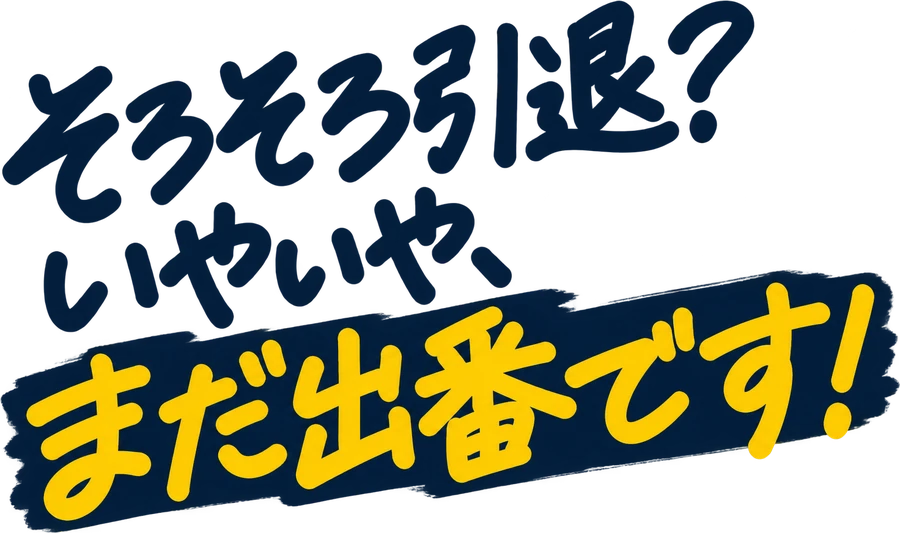
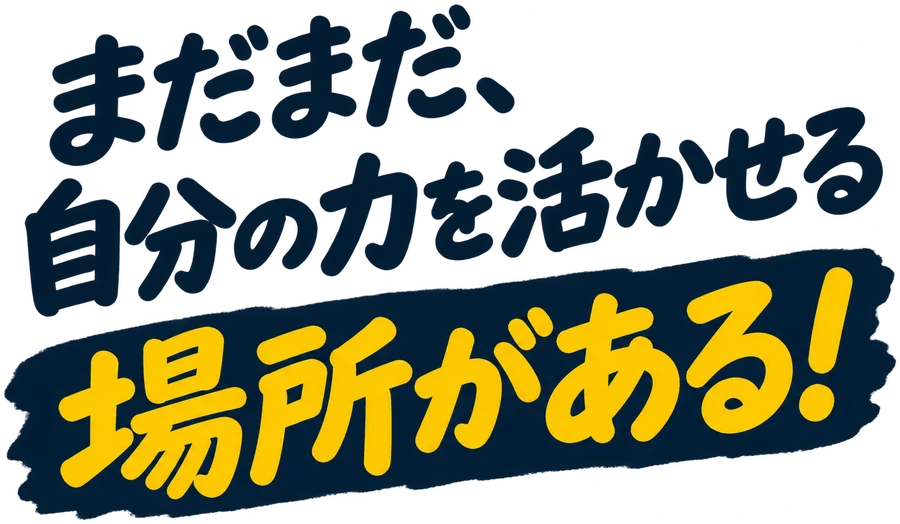
表示を更新（2026-11-02）

diff --git a/index.html b/index.html
@@ -9,20 +9,20 @@
   <meta property="og:type" content="website">
   <meta property="og:title" content="興和通信建設株式会社｜警備員 採用サイト">
   <meta property="og:description" content="興和通信建設株式会社 採用サイト。東京都港区・足立区で交通誘導警備員（パート・アルバイト）を募集しています。">
-  <meta property="og:url" content="https://kowa-keibi-recruit.pages.dev/">
+  <meta property="og:url" content="https://hse-inc.github.io/kowa-keibi-lp/">
   <meta property="og:site_name" content="興和通信建設株式会社 採用サイト">
-  <meta property="og:image" content="https://kowa-keibi-recruit.pages.dev/assets/ogp.jpg">
+  <meta property="og:image" content="https://hse-inc.github.io/kowa-keibi-lp/assets/ogp.jpg">
   <meta property="og:image:width" content="1200">
   <meta property="og:image:height" content="630">
   <meta name="twitter:card" content="summary_large_image">
-  <meta name="twitter:image" content="https://kowa-keibi-recruit.pages.dev/assets/ogp.jpg">
+  <meta name="twitter:image" content="https://hse-inc.github.io/kowa-keibi-lp/assets/ogp.jpg">
   <link rel="icon" href="assets/favicon.svg" type="image/svg+xml">
   <link rel="preconnect" href="https://fonts.googleapis.com">
   <link rel="preconnect" href="https://fonts.gstatic.com" crossorigin>
   <link href="https://fonts.googleapis.com/css2?family=Yusei+Magic&family=Montserrat:wght@700;800&family=Zen+Kaku+Gothic+New:wght@500;700&display=swap" rel="stylesheet">
-    <link rel="stylesheet" href="tokens.css?v=20261028e">
-  <link rel="stylesheet" href="base.css?v=20261028e">
-  <link rel="stylesheet" href="style.css?v=20261028e">
+    <link rel="stylesheet" href="tokens.css?v=20261102a">
+  <link rel="stylesheet" href="base.css?v=20261102a">
+  <link rel="stylesheet" href="style.css?v=20261102a">
 </head>
 <body>
   <svg width="0" height="0" class="defs" aria-hidden="true">
@@ -81,8 +81,8 @@
             <svg class="obj obj--white" style="--x:4%;--y:92%;--s:24px;--d:-.6s"><use href="#spark"/></svg>
           </div>
           <div class="page__inner page__inner--kv">
-            <h2 class="ttl ttl--hand ttl--kv rv ttl--img"><span class="vh"><span class="ln">そろそろ引退？いやいや、まだ出番です！</span></span><img class="ttl__img" src="assets/ttl_p1.webp?v=20261028e" alt="" width="900" height="533" decoding="async" aria-hidden="true"></h2>
-            <p class="body body--kv rv"><span class="ln"><span class="nb">「<span class="em">昔ほど</span>体力が</span><wbr>なくなってきたなぁ」</span><span class="ln"><span class="nb">「<span class="em">授業や</span>仕事の合間にサクッと稼ぎたいな！」</span></span><span class="ln">そんなふうに<wbr>思っていませんか？</span><span class="ln">でも、<wbr>ちょっと<wbr>待ってください！</span><span class="ln">まだまだ、<wbr>あなたの<wbr>力が<wbr>必要な<wbr>場所があります。</span><span class="ln">無理して<wbr>頑張る<wbr>必要はありません。</span><span class="ln">自分の<wbr>ペースを<wbr>大切にしながら、<wbr>街の<wbr>安全を<wbr>見守る<wbr>仕事。</span><span class="ln"><span class="hl"><span class="nb">さあ、もう一度、</span><wbr><span class="nb">街へ出てみませんか？</span></span></span></p>
+            <h2 class="ttl ttl--hand ttl--kv rv ttl--img"><span class="vh"><span class="ln">まだまだ、自分の力を活かせる場所がある！</span></span><img class="ttl__img" src="assets/ttl_p1.webp?v=20261102a" alt="" width="900" height="524" decoding="async" aria-hidden="true"></h2>
+            <p class="body body--kv rv"><span class="ln">これまでの<wbr><span class="em">経験</span>を<wbr>活かすのもよし。</span><span class="ln"><span class="nb"><span class="em">新しい仕事</span>に</span><wbr>飛び込むのもよし。</span><span class="ln">無理せず、<wbr><span class="nb"><span class="em">自分らしいペース</span>で</span><wbr>働くのもよし。</span><span class="ln"><span class="nb">「東京で新しい生活を</span><wbr><span class="nb">始めたい！」</span></span><span class="ln">そんな<wbr>きっかけだって<wbr><span class="em">大歓迎！</span></span><span class="ln">大切なのは、<wbr>年齢や<wbr>経験よりも、<wbr><span class="em nb">これからどう働きたいか。</span></span><span class="ln"><span class="nb">若手には若手の、</span><wbr><span class="nb">ミドル世代にはミドル世代の、</span></span><span class="ln"><span class="nb">ベテランにはベテランの</span><wbr><span class="nb">強みがあります。</span></span><span class="ln">無理に<wbr>背伸びする<wbr>必要も、<wbr>頑張りすぎる<wbr>必要もありません。</span><span class="ln">自分の<wbr>ペースで<wbr>働きながら、<wbr>街の<wbr>安全を<wbr>守っていく。</span><span class="ln"><span class="hl"><span class="nb">まだまだ、あなたの経験も</span><wbr><span class="nb">可能性も</span></span></span><span class="ln"><span class="hl"><span class="nb">眠らせておくには早すぎます！</span></span></span></p>
           </div>
         </section>
 
@@ -120,7 +120,7 @@
               <p class="ring"><span class="page__label ring__lab">ON</span><svg class="ico" style="--s:52px"><use href="#baton"/></svg></p>
               <p class="ring ring--2"><span class="page__label ring__lab">OFF</span><img class="fig fig--ring" src="assets/ill/p3_off.webp?v=20261028e" alt="" width="816" height="520" decoding="async"></p>
             </div>
-            <p class="body body--c rv"><span class="ln">当社の<wbr>警備は、<wbr>メリハリが<wbr>大切。</span><span class="ln">工事車両を<wbr>コインパーキングなどに<wbr>停めて<wbr><span class="nb">作業する際は、</span><wbr>車内で<wbr>待機することもあります。</span><span class="ln">もちろん、<wbr>安全確認や<wbr>誘導が<wbr>必要なときは、<wbr><span class="nb">しっかり対応。</span></span><span class="ln">でも、<wbr>ずっと<wbr>立ち<wbr>続けたり、<wbr>慌ただしく<wbr>動き<wbr>回ったりする<wbr>現場ばかりではありません。</span><span class="ln">体力に<wbr>自信がない<wbr>方も、<wbr>無理なく<wbr>続けやすい。</span><span class="ln"><span class="hl"><span class="nb">そんな働き方ができる仕事です。</span></span></span></p>
+            <p class="body body--c rv"><span class="ln">動くときは<wbr>しっかり動く。</span><span class="ln">待機するときは、<wbr>落ち着いて<wbr>見守る。</span><span class="ln">当社の<wbr>警備は、<wbr>メリハリが<wbr>大切。</span><span class="ln">もちろん、<wbr>安全確認や<wbr>誘導が<wbr>必要なときは、<wbr><span class="nb">しっかり対応。</span></span><span class="ln">でも、<wbr>ずっと<wbr>立ち<wbr>続けたり、<wbr>慌ただしく<wbr>動き<wbr>回ったりする<wbr>現場ばかりではありません。</span><span class="ln">体力に<wbr>自信がない<wbr>方も、<wbr>無理なく<wbr>続けやすい。</span><span class="ln"><span class="hl"><span class="nb">そんな働き方ができる仕事です。</span></span></span></p>
           </div>
         </section>
 
@@ -199,9 +199,10 @@
               <h2 class="ttl ttl--denser ttl--hand ttl--center rv ttl--img"><span class="vh"><span class="ln">こんなあなたに、ぜひ来てほしい！</span></span><img class="ttl__img" src="assets/ttl_p7.webp?v=20261028e" alt="" width="900" height="395" decoding="async" aria-hidden="true"></h2>
             </div>
             <div class="bands">
-              <p class="band band--ink rv"><span class="page__label band__en" aria-hidden="true">Voice 01</span><span class="ln">「まだまだ<wbr>現役でいたい！」</span></p>
-              <p class="band band--yellow rv"><span class="page__label band__en" aria-hidden="true">Voice 02</span><span class="ln">「身体に<wbr>無理なく<wbr>働きたい！」</span></p>
-              <p class="band band--pale rv"><span class="page__label band__en" aria-hidden="true">Voice 03</span><span class="ln">「人と<wbr>関わる<wbr>仕事が<wbr>好き！」</span></p>
+              <p class="band band--ink rv"><span class="page__label band__en" aria-hidden="true">Voice 01</span><span class="ln">「人と<wbr>関わる<wbr>仕事が<wbr>好き！」</span></p>
+              <p class="band band--yellow rv"><span class="page__label band__en" aria-hidden="true">Voice 02</span><span class="ln">「未経験から<wbr>新しい<wbr>仕事に<wbr>挑戦したい！」</span></p>
+              <p class="band band--pale rv"><span class="page__label band__en" aria-hidden="true">Voice 03</span><span class="ln">「身体に<wbr>無理なく<wbr>働きたい！」</span></p>
+              <p class="band band--ink rv"><span class="page__label band__en" aria-hidden="true">Voice 04</span><span class="ln">「まだまだ<wbr>現役でいたい！」</span></p>
             </div>
             <p class="body body--c rv"><span class="ln">そんな<wbr>気持ちがある<wbr>方を<wbr>歓迎します。</span><span class="ln">警備の<wbr>経験がなくても、<wbr>特別な<wbr>スキルに<wbr>自信がなくても<wbr>大丈夫。</span><span class="ln">大切なのは、<wbr>周囲への<wbr>気配りと、<wbr><span class="nb">安全を守ろうとする姿勢です。</span></span><span class="ln">年齢を<wbr>重ねたからこその<wbr>落ち<wbr>着きや、<wbr>人生経験も<wbr>立派な<wbr>強み。</span><span class="ln"><span class="hl"><span class="nb">あなたらしさを、</span><wbr><span class="nb">ぜひ当社で活かしてください。</span></span></span></p>
           </div>
@@ -271,7 +272,7 @@
             <div class="cd cd--white">
               <dl class="req">
                 <div class="req__row"><dt>職種<span class="vh">：</span></dt><dd>警備員</dd></div>
-                <div class="req__row"><dt>仕事内容<span class="vh">：</span></dt><dd><span class="ln">・車両、<wbr>歩行者等の<wbr>交通誘導、<wbr><span class="nb">車内待機（車両の見張り）</span></span><span class="ln">・幹線系工事</span><span class="ln">・引込系工事</span><span class="ln">・通信設備、<wbr><span class="nb">配線工事、保守</span></span></dd></div>
+                <div class="req__row"><dt>仕事内容<span class="vh">：</span></dt><dd><span class="ln">・車両、<wbr>歩行者等の<wbr>交通誘導、<wbr><span class="nb">車内待機（車両の見張り）</span></span></dd></div>
                 <div class="req__row"><dt>雇用形態<span class="vh">：</span></dt><dd>パート・アルバイト</dd></div>
                 <div class="req__row"><dt>給与<span class="vh">：</span></dt><dd>日給／11,500円〜12,500円</dd></div>
                 <div class="req__row"><dt>試用期間<span class="vh">：</span></dt><dd>3ヶ月</dd></div>
@@ -280,9 +281,9 @@
                 <div class="req__row"><dt>休日休暇<span class="vh">：</span></dt><dd>シフト制</dd></div>
                 <div class="req__row"><dt>福利厚生<span class="vh">：</span></dt><dd>
                   <span class="ln">◇ 法定研修あり</span><span class="ln">未経験の<wbr>方でも<wbr>業務に<wbr>就く<wbr>前に<wbr>研修を<wbr>行いますので<wbr>ご安心ください。</span><span class="ln">20時間以上(3日間)：約25,600円</span><span class="ln">※20勤務後の<wbr>給与に<wbr>算入</span>
-                  <span class="ln">日給 11,500円 ～ 12,500円</span><span class="ln">◇ 交通費全額支給</span><span class="ln">◇ 入社祝金30,000円支給</span><span class="ln">┗20勤務後</span><span class="ln">◇ 皆勤手当あり</span><span class="ln">┗月：10,000円(月20日以上勤務した<wbr>場合)</span><span class="ln">◇ 残業手当あり</span><span class="ln">┗1563円/ｈ</span><span class="ln">◇ 資格手当あり</span><span class="ln">┗交通誘導業務検定1級、<wbr>2級を<wbr>お持ちの<wbr>方：日給に+500円</span><span class="ln">┗資格配置現場：1日+1,500円</span><span class="ln">◇ 日給全額保証あり</span>
+                  <span class="ln">日給 11,500円 ～ 12,500円</span><span class="ln">◇ 交通費全額支給</span><span class="ln">◇ 入社祝金30,000円支給</span><span class="ln">┗20勤務後</span><span class="ln">◇ 皆勤手当あり</span><span class="ln">┗月：10,000円(月20日以上勤務した<wbr>場合)</span><span class="ln">◇ 残業手当あり</span><span class="ln">◇ 資格手当あり</span><span class="ln">┗交通誘導業務検定1級、<wbr>2級を<wbr>お持ちの<wbr>方：日給に+500円</span><span class="ln">┗資格配置現場：1日+1,500円</span><span class="ln">◇ 日給全額保証あり</span>
                   <span class="ln">◇ 未経験OK！</span><span class="ln">◇ 週2～3日からOK！</span><span class="ln">◇ 社員登用あり！</span>
-                  <span class="ln">現在、<wbr>寮・社宅の<wbr>ご用意は<wbr>ありませんが、<wbr>遠方からの<wbr>ご応募や<wbr>住居に<wbr>関する<wbr>ご相談には<wbr>柔軟に<wbr>対応いたします。</span><span class="ln">お気軽に<wbr>ご相談ください。</span>
+                  <span class="ln">遠方からの<wbr>ご応募や<wbr>住居に<wbr>関する<wbr>ご相談には<wbr>柔軟に<wbr>対応いたします。</span><span class="ln">お気軽に<wbr>ご相談ください。</span>
                 </dd></div>
               </dl>
             </div>
@@ -359,7 +360,7 @@
     </aside>
   </div>
 
-  <script src="swipe.js?v=20261028e"></script>
-  <script src="site.js?v=20261028e"></script>
+  <script src="swipe.js?v=20261102a"></script>
+  <script src="site.js?v=20261102a"></script>
 </body>
 </html>

diff --git a/style.css b/style.css
@@ -1,6 +1,7 @@
 .page--pale { background: var(--color-pale); }
 .page--white { background: var(--color-base); }
 .page--yellow { background: var(--color-accent); }
+.page--p1 { --sp-g: 0.6em; }   
 .page--ink { --sp-g: 0.75em; background: var(--color-ink); }   
 .bgd { position: absolute; inset: 0; z-index: 0; overflow: hidden; pointer-events: none; }
 
@@ -31,13 +32,13 @@
 .ttl--img { rotate: 0deg; margin-bottom: 0; }   
 .ttl__img { display: block; width: auto; height: auto; max-width: min(92%, 18em); max-height: 25dvh; font-size: var(--fs-base); }   
 .ttl--center .ttl__img { margin-inline: auto; }
-.ttl--kv .ttl__img { max-width: min(92%, 20em); max-height: 28dvh; }
+.ttl--kv .ttl__img { max-width: min(92%, 20em); max-height: 19dvh; }
 .ttl--dense .ttl__img { max-height: 19dvh; }      
 .ttl--denser .ttl__img { max-height: 12.5dvh; }  
 .head--fig .ttl__img { max-width: min(70%, 16em); }
 .ttl--talk .ttl__img { width: 100%; max-width: none; max-height: none; }
 .big .ttl__img { width: min(80%, 12.5em); max-height: none; }
-.ttl--kv { margin-bottom: 0.6em; font-size: calc(var(--fs-head) * 1.12); transform-origin: 100% 0; }
+.ttl--kv { margin-bottom: 0; font-size: calc(var(--fs-head) * 1.12); transform-origin: 100% 0; }
 .say { position: relative; display: inline-block; margin-left: 0.5em; padding: 0.35em 0.9em; font-family: var(--font-en); font-weight: 800; font-size: var(--fs-ui); line-height: 1.2; letter-spacing: 0.02em; color: var(--color-ink); vertical-align: 0.3em; background: var(--color-base); border-radius: var(--radius-pill); white-space: nowrap; }
 .say::after { content: ""; position: absolute; left: 1.2em; bottom: -6px; width: 10px; height: 8px; background: var(--color-base); clip-path: polygon(0 0, 100% 0, 30% 100%); }
 
@@ -46,9 +47,9 @@
 
 .em { padding: 0 0.22em; background: var(--color-base); border-radius: 6px; }
 
-.body--kv { position: relative; z-index: 2; font-weight: 700; }
+.body--kv { position: relative; z-index: 2; font-weight: 700; line-height: 1.55; }
 .body--c { position: relative; z-index: 2; text-align: center; }
-.page__inner--kv > .body { max-width: 74%; }
+.page__inner--kv > .body { max-width: 76%; }
 
 .cd2 { position: relative; z-index: 2; display: grid; gap: var(--sp-1); padding: 8px 8px 0.6em; color: var(--color-ink); background: var(--color-accent); border-radius: var(--radius-big); }
 .cd2 > .body { padding: 0 0.45em; }
@@ -127,7 +128,8 @@
 .ring__lab { font-family: var(--font-en); font-weight: 800; font-size: var(--fs-ui); letter-spacing: 0.1em; }
 
 .bands { position: relative; z-index: 2; display: grid; gap: 4px; }
-.band { display: grid; gap: 0.1em; padding: 0.45em 1.1em 0.5em; font-weight: 700; border-radius: var(--radius-card); }
+#p7 { --sp-g: 0.8em; }   
+.band { display: grid; gap: 0; padding: 0.3em 1.1em 0.35em; line-height: 1.4; font-weight: 700; border-radius: var(--radius-card); }
 .band__en { font-family: var(--font-en); font-weight: 800; font-size: var(--fs-min); letter-spacing: 0.04em; }
 .band--ink { color: var(--color-on-dark); background: var(--color-ink); }
 .band--yellow { color: var(--color-ink); background: var(--color-accent); }
@@ -140,8 +142,7 @@
 @media (max-height: 600px) {
   .cd { padding: 0.8em 0.9em; }
   .bands { gap: 5px; }
-  .band { padding: 0.45em 1em 0.5em; }
-  .band__en { display: none; }
+  .band { grid-template-columns: auto 1fr; align-items: baseline; column-gap: 0.6em; padding: 0.3em 1em 0.35em; }
   .big { padding: 1em 1em 1.1em; }
 }
 
@@ -164,9 +165,11 @@
   .rail-side .btn--fill { color: var(--color-ink); }
   :root { --col: clamp(480px, 57.5dvh, 600px); }
   .page { --fs-base: clamp(15px, 2.1dvh, 21.5px); --sp-g: clamp(1.15em, 3dvh, 2.4em); }
-  .page--ink { --sp-g: clamp(0.75em, 1.5dvh, 1.2em); }
+  .page--p1 { --sp-g: 0.6em; }
+  .page--ink, #p7 { --sp-g: clamp(0.75em, 1.5dvh, 1.2em); }
   .ttl__img, .ttl--dense .ttl__img, .ttl--denser .ttl__img { max-width: min(92%, 21em); max-height: 28dvh; }   
-  .ttl--kv .ttl__img { max-width: min(92%, 22em); max-height: 32dvh; }
+  .ttl--kv .ttl__img { max-width: min(92%, 22em); max-height: 24dvh; }
+  .guard { width: min(25%, 145px); }
   .head--fig .ttl__img { max-width: min(72%, 18em); }
   .rail { overflow: hidden; }
   .rail-blob { position: absolute; width: 70%; aspect-ratio: 1; animation: gnd var(--blob-t) ease-in-out infinite alternate; }
